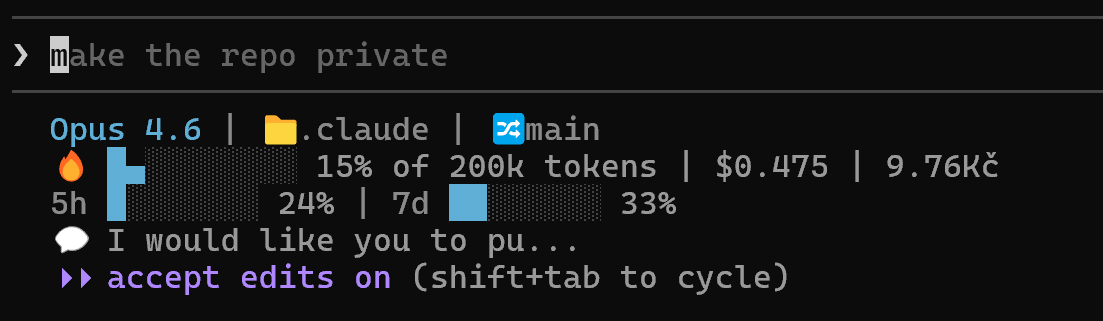
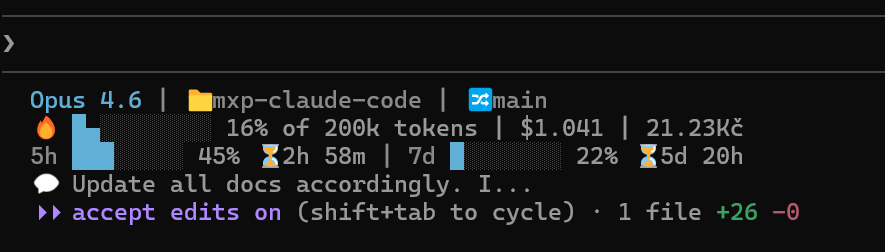
add usage timers - when is usage refreshed - to status line

Changed region(s): [[0.0305, 0.3333, 0.9153, 0.9167], [0.0, 0.0278, 1.0, 0.0833], [0.0, 0.1111, 0.4271, 0.25]]

diff --git a/README.md b/README.md
@@ -3,6 +3,7 @@
 A collection of skills, agents, scripts, and instructions that extend [Claude Code](https://docs.anthropic.com/en/docs/claude-code) with spec-driven project development workflows and general-purpose dev tools.
 
 **Two ways to use it:**
+
 - **Full mpx workflow** — spec-driven, phase-based project development from scratch
 - **Individual skills** — cherry-pick general-purpose tools (commits, PRs, reviews, etc.)
 
@@ -11,45 +12,6 @@ A collection of skills, agents, scripts, and instructions that extend [Claude Co
 ### Prerequisites
 
 - [Claude Code CLI](https://docs.anthropic.com/en/docs/claude-code) installed and working
-
-### Setup
-
-1. **Clone this repo:**
-
-```bash
-git clone https://github.com/user/mxp-claude-code.git
-cd mxp-claude-code
-```
-
-2. **Symlink into `~/.claude/`:**
-
-Claude Code loads skills, agents, and instructions from `~/.claude/`. Create symlinks so this repo's contents are available globally.
-
-**macOS / Linux:**
-
-```bash
-ln -s "$(pwd)/skills" ~/.claude/skills
-ln -s "$(pwd)/agents" ~/.claude/agents
-ln -s "$(pwd)/scripts" ~/.claude/scripts
-ln -s "$(pwd)/instructions" ~/.claude/instructions
-ln -s "$(pwd)/assets" ~/.claude/assets
-ln -s "$(pwd)/CLAUDE.md" ~/.claude/CLAUDE.md
-ln -s "$(pwd)/AGENTS.md" ~/.claude/AGENTS.md
-```
-
-**Windows (run as Administrator):**
-
-```cmd
-mklink /D "%USERPROFILE%\.claude\skills" "C:\path\to\mxp-claude-code\skills"
-mklink /D "%USERPROFILE%\.claude\agents" "C:\path\to\mxp-claude-code\agents"
-mklink /D "%USERPROFILE%\.claude\scripts" "C:\path\to\mxp-claude-code\scripts"
-mklink /D "%USERPROFILE%\.claude\instructions" "C:\path\to\mxp-claude-code\instructions"
-mklink /D "%USERPROFILE%\.claude\assets" "C:\path\to\mxp-claude-code\assets"
-mklink "%USERPROFILE%\.claude\CLAUDE.md" "C:\path\to\mxp-claude-code\CLAUDE.md"
-mklink "%USERPROFILE%\.claude\AGENTS.md" "C:\path\to\mxp-claude-code\AGENTS.md"
-```
-
-3. **Verify:** Launch Claude Code in any project — skills should appear when you type `/mp` or `/mpx`.
 
 ## Quick Start
 
@@ -112,45 +74,45 @@ All mpx projects use phase-based organization inside `.mpx/`:
 
 ### mpx- Skills (Spec-Driven Workflow)
 
-| Skill | Description |
-|-------|-------------|
-| `/mpx-setup` | Unified project setup (auto-detects: fresh init, convert existing, restructure) |
-| `/mpx-create-spec` | Interactive spec creation |
-| `/mpx-init-repo` | Initialize git repo |
-| `/mpx-parse-spec` | Parse SPEC.md → ROADMAP.md + phases |
-| `/mpx-execute` | Select phase, execute tasks (full phase or single) |
-| `/mpx-show-project-status` | Show progress |
-| `/mpx-add-requirements` | Add requirements with conflict detection |
-| `/mpx-handoff` | Create ephemeral HANDOFF.md for session bridging |
+| Skill                      | Description                                                                     |
+| -------------------------- | ------------------------------------------------------------------------------- |
+| `/mpx-setup`               | Unified project setup (auto-detects: fresh init, convert existing, restructure) |
+| `/mpx-create-spec`         | Interactive spec creation                                                       |
+| `/mpx-init-repo`           | Initialize git repo                                                             |
+| `/mpx-parse-spec`          | Parse SPEC.md → ROADMAP.md + phases                                             |
+| `/mpx-execute`             | Select phase, execute tasks (full phase or single)                              |
+| `/mpx-show-project-status` | Show progress                                                                   |
+| `/mpx-add-requirements`    | Add requirements with conflict detection                                        |
+| `/mpx-handoff`             | Create ephemeral HANDOFF.md for session bridging                                |
 
 ### mp- Skills (General Purpose)
 
-| Skill | Description |
-|-------|-------------|
-| `/mp-commit` | Stage and commit with conventional format |
-| `/mp-pr-create` | Create draft PR from existing commits |
-| `/mp-commit-push-pr` | Full workflow — commit, push, create draft PR |
-| `/mp-review-branch` | Multi-agent code review of current branch |
-| `/mp-review-pr` | PR review with confidence scoring |
-| `/mp-review-design` | Visual design inspection via chrome-devtools |
-| `/mp-gh-issue-fix` | Investigate and fix GitHub issues |
-| `/mp-update-readme` | Update README.md |
-| `/mp-update-instructions` | Analyze history, improve CLAUDE.md/AGENTS.md |
-| `/mp-check-fix` | Auto-detect and fix build/typecheck/lint errors |
-| `/mp-gemini-fetch` | Fetch blocked sites via Gemini CLI |
+| Skill                     | Description                                     |
+| ------------------------- | ----------------------------------------------- |
+| `/mp-commit`              | Stage and commit with conventional format       |
+| `/mp-pr-create`           | Create draft PR from existing commits           |
+| `/mp-commit-push-pr`      | Full workflow — commit, push, create draft PR   |
+| `/mp-review-branch`       | Multi-agent code review of current branch       |
+| `/mp-review-pr`           | PR review with confidence scoring               |
+| `/mp-review-design`       | Visual design inspection via chrome-devtools    |
+| `/mp-gh-issue-fix`        | Investigate and fix GitHub issues               |
+| `/mp-update-readme`       | Update README.md                                |
+| `/mp-update-instructions` | Analyze history, improve CLAUDE.md/AGENTS.md    |
+| `/mp-check-fix`           | Auto-detect and fix build/typecheck/lint errors |
+| `/mp-gemini-fetch`        | Fetch blocked sites via Gemini CLI              |
 
 ## Agents
 
-| Agent | Model | Description |
-|-------|-------|-------------|
-| mpx-executor | Opus | Executes tasks with fresh context |
-| mpx-spec-analyzer | Sonnet | Analyzes specs and creates phase structure |
-| mpx-codebase-scanner | Sonnet | Scans codebase for tech stack, features, structure |
-| mp-gh-issue-analyzer | Opus | Analyzes GitHub issues, creates fix plans |
-| mp-context7-docs-fetcher | Sonnet | Fetches library docs via Context7 MCP |
-| mp-css-layout-debugger | Haiku | CSS layout debugging |
-| mp-bash-script-colorizer | Haiku | Bash script coloring guidelines |
-| mp-ux-designer | Sonnet | UX research and design artifacts |
+| Agent                    | Model  | Description                                        |
+| ------------------------ | ------ | -------------------------------------------------- |
+| mpx-executor             | Opus   | Executes tasks with fresh context                  |
+| mpx-spec-analyzer        | Sonnet | Analyzes specs and creates phase structure         |
+| mpx-codebase-scanner     | Sonnet | Scans codebase for tech stack, features, structure |
+| mp-gh-issue-analyzer     | Opus   | Analyzes GitHub issues, creates fix plans          |
+| mp-context7-docs-fetcher | Sonnet | Fetches library docs via Context7 MCP              |
+| mp-css-layout-debugger   | Haiku  | CSS layout debugging                               |
+| mp-bash-script-colorizer | Haiku  | Bash script coloring guidelines                    |
+| mp-ux-designer           | Sonnet | UX research and design artifacts                   |
 
 Agents are auto-spawned based on rules in `AGENTS.md` — no manual invocation needed.
 
@@ -159,9 +121,10 @@ Agents are auto-spawned based on rules in `AGENTS.md` — no manual invocation n
 ![Status Line](assets/status-line.png)
 
 3-line status bar showing:
+
 - **Line 1**: Model, directory, git branch
 - **Line 2**: Context usage bar (█/░), % tokens, session cost (USD/CZK)
-- **Line 3**: 5-hour & 7-day quota utilization
+- **Line 3**: 5-hour & 7-day quota utilization with reset countdowns
 
 Configured via `scripts/context-bar.sh`.
 
